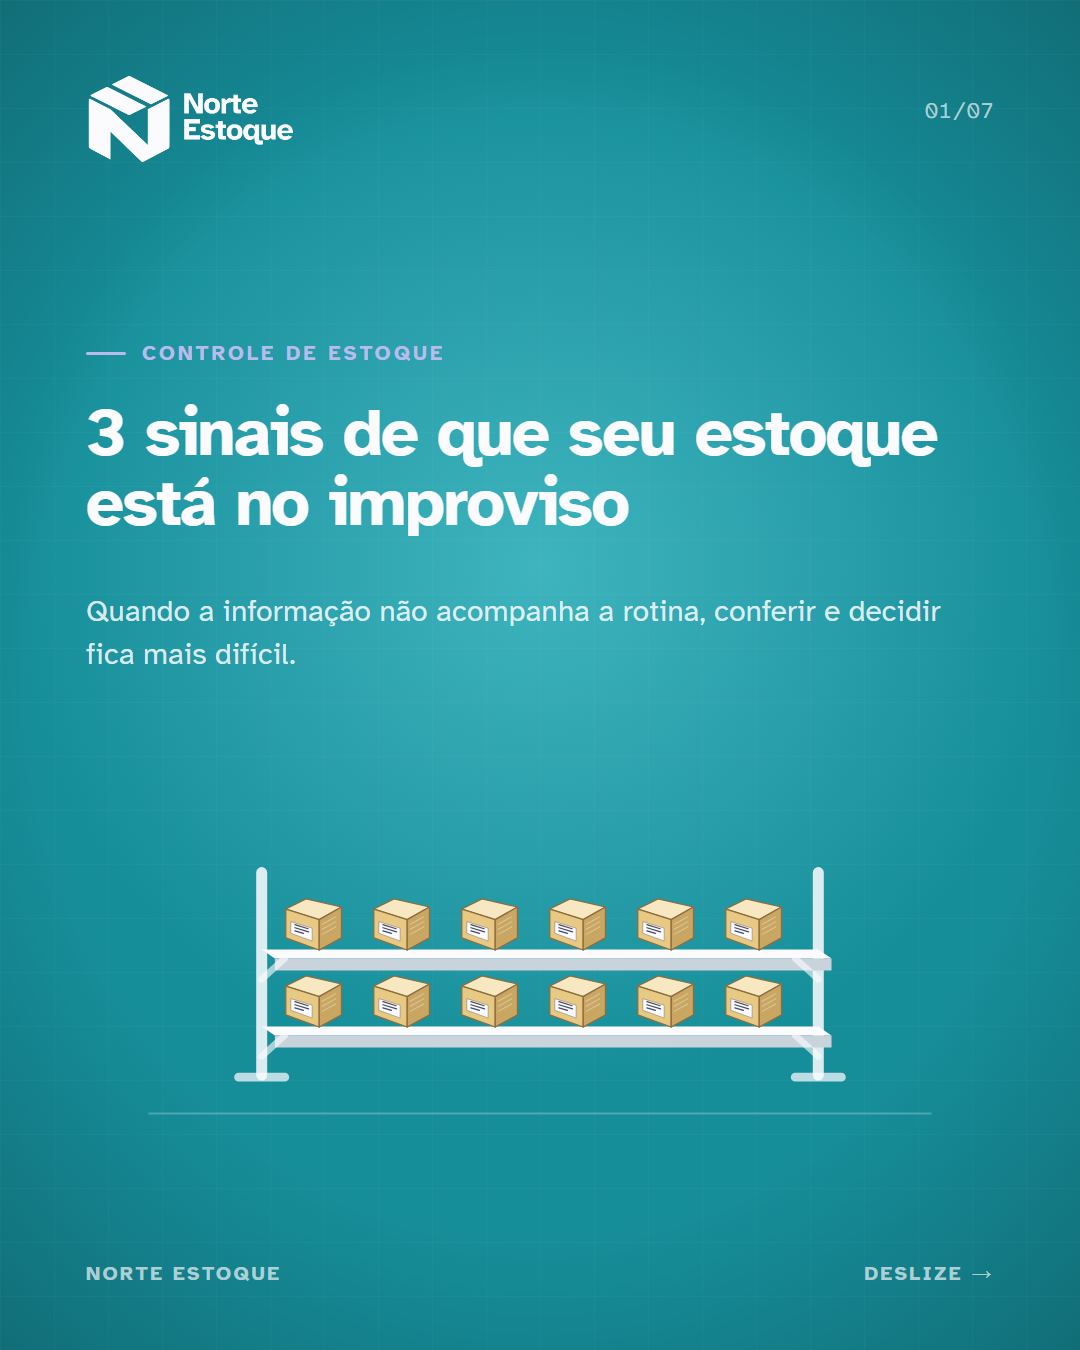
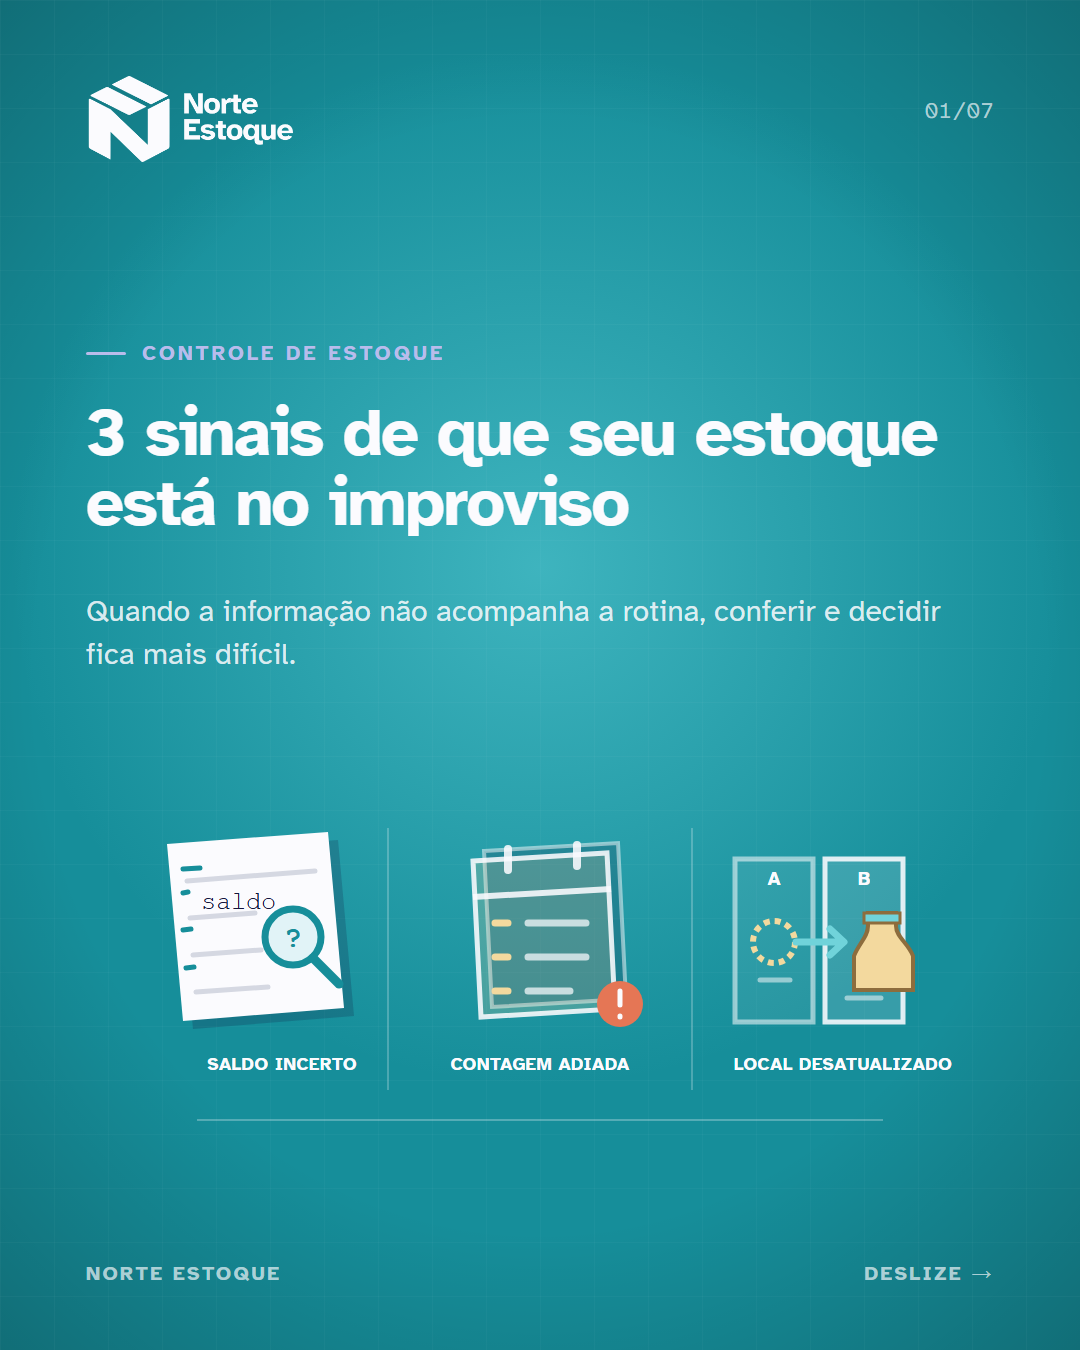
Apply selected three-signal illustration to inventory cover

Changed region(s): [[0.1528, 0.5911, 0.8861, 0.84]]

diff --git a/src/coverReferences/NorteEstoqueCoverReferences.tsx b/src/coverReferences/NorteEstoqueCoverReferences.tsx
@@ -2,6 +2,7 @@ import React from 'react';
 import {AbsoluteFill, Img} from 'remotion';
 import {Background, Eyebrow, Foot, NAVY, PAD, Produto, Support, Title, WHITE, kit, mute} from '../lib/NortePost';
 import {ensurePostLoaded, FONT_POST as SANS, FONT_POST_MONO as MONO} from '../lib/fonts';
+import {NorteEstoqueSignalsIllustration} from '../lib/NorteEstoqueSignalsIllustration';
 
 const LOGO_ESTOQUE = kit('01-logos/norte-estoque/horizontal/norte-estoque_horizontal_branco_transparente.png');
 const TEAL = '#70D3DA';
@@ -29,43 +30,7 @@ const RefFrame: React.FC<{name: string; children: React.ReactNode}> = ({name, ch
 
 const LinhaSinais: React.FC = () => (
   <RefFrame name="Os três sinais">
-    <svg width="908" height="390" viewBox="0 0 908 390" fill="none" xmlns="http://www.w3.org/2000/svg" aria-label="Três sinais ilustrados separadamente: saldo incerto, contagem adiada e local desatualizado">
-      <path d="M302 58V320M606 58V320" stroke="rgba(251,251,254,.24)" strokeWidth="2" />
-      <g transform="translate(70 48)">
-        <path d="M21 34L182 22L198 198L37 211Z" fill="rgba(20,22,58,.2)" />
-        <path d="M11 26L172 14L188 190L27 203Z" fill="#FBFBFE" />
-        <path d="M31 63L159 53M34 100L99 95M37 137L105 132M40 174L112 169" stroke="#D5D8E2" strokeWidth="5" strokeLinecap="round" />
-        <text x="45" y="91" fill="#14163A" fontFamily="monospace" fontSize="25">saldo</text>
-        <circle cx="137" cy="119" r="28" fill="rgba(112,211,218,.18)" stroke="#168E9A" strokeWidth="7" />
-        <text x="137" y="129" textAnchor="middle" fill="#168E9A" fontFamily="monospace" fontSize="30" fontWeight="700">?</text>
-        <path d="M157 140L183 166" stroke="#168E9A" strokeWidth="9" strokeLinecap="round" />
-        <path d="M27 51L44 50M27 75L32 74M27 112L35 111M30 150L38 149" stroke="#168E9A" strokeWidth="5" strokeLinecap="round" />
-      </g>
-      <text x="196" y="300" textAnchor="middle" fill={WHITE} fontFamily={SANS} fontSize="18" fontWeight="700" letterSpacing=".4">SALDO INCERTO</text>
-      <g transform="translate(370 55)">
-        <path d="M28 26L162 18L170 174L36 182Z" fill="rgba(20,22,58,.18)" stroke="rgba(251,251,254,.5)" strokeWidth="4" />
-        <path d="M17 36L151 28L159 184L25 192Z" fill="rgba(243,217,158,.2)" stroke={STROKE} strokeWidth="5" />
-        <path d="M17 72L155 64" stroke={STROKE} strokeWidth="6" />
-        <path d="M52 24V45M121 20V41" stroke={STROKE} strokeWidth="8" strokeLinecap="round" />
-        <path d="M39 98H52M39 132H52M39 166H52" stroke={CREAM} strokeWidth="7" strokeLinecap="round" />
-        <path d="M72 98H130M72 132H130M72 166H114" stroke="rgba(251,251,254,.72)" strokeWidth="7" strokeLinecap="round" />
-        <circle cx="164" cy="179" r="23" fill="#E57655" />
-        <path d="M164 166V180M164 191V192" stroke={WHITE} strokeWidth="5" strokeLinecap="round" />
-      </g>
-      <text x="454" y="300" textAnchor="middle" fill={WHITE} fontFamily={SANS} fontSize="18" fontWeight="700" letterSpacing=".4">CONTAGEM ADIADA</text>
-      <g transform="translate(644 61)">
-        <path d="M5 28H83V191H5Z" fill="rgba(251,251,254,.08)" stroke="rgba(251,251,254,.55)" strokeWidth="5" />
-        <path d="M95 28H173V191H95Z" fill="rgba(251,251,254,.15)" stroke={STROKE} strokeWidth="5" />
-        <text x="44" y="54" textAnchor="middle" fill={WHITE} fontFamily={SANS} fontSize="19" fontWeight="700">A</text>
-        <text x="134" y="54" textAnchor="middle" fill={WHITE} fontFamily={SANS} fontSize="19" fontWeight="700">B</text>
-        <circle cx="44" cy="111" r="21" stroke={CREAM} strokeWidth="6" strokeDasharray="6 5" />
-        <path d="M66 111H112M100 98L114 111L100 124" stroke={TEAL} strokeWidth="7" strokeLinecap="round" strokeLinejoin="round" />
-        <g transform="translate(124 82)"><path d="M14 0H42V13C42 24 54 30 59 43V77H0V43C5 30 14 24 14 13Z" fill={CREAM} stroke="#8D6D3D" strokeWidth="4"/><path d="M10 0H46V10H10Z" fill={TEAL} stroke="#8D6D3D" strokeWidth="3"/></g>
-        <path d="M30 149H60M117 167H151" stroke="rgba(251,251,254,.52)" strokeWidth="5" strokeLinecap="round" />
-      </g>
-      <text x="757" y="300" textAnchor="middle" fill={WHITE} fontFamily={SANS} fontSize="18" fontWeight="700" letterSpacing=".4">LOCAL DESATUALIZADO</text>
-      <path d="M111 350H797" stroke="rgba(251,251,254,.28)" strokeWidth="2" />
-    </svg>
+    <NorteEstoqueSignalsIllustration />
   </RefFrame>
 );
 const Caderno: React.FC = () => (
@@ -147,6 +112,7 @@ export const NorteEstoqueCapaBalanca = LinhaSinais;
 export const NorteEstoqueCapaMapa = Caderno;
 export const NorteEstoqueCapaEtiqueta = Mapa;
 export const NorteEstoqueCapaMedidor = Mesa;
+
 
 
 

diff --git a/src/lib/NorteEstoqueSignalsIllustration.tsx b/src/lib/NorteEstoqueSignalsIllustration.tsx
@@ -1,0 +1,47 @@
+import React from 'react';
+import {FONT_POST as SANS} from './fonts';
+
+const TEAL = '#70D3DA';
+const CREAM = '#F3D99E';
+const STROKE = 'rgba(251,251,254,.88)';
+const WHITE = '#FBFBFE';
+
+export const NorteEstoqueSignalsIllustration: React.FC = () => (
+  <svg width="908" height="390" viewBox="0 0 908 390" fill="none" xmlns="http://www.w3.org/2000/svg" aria-label="Três sinais ilustrados separadamente: saldo incerto, contagem adiada e local desatualizado">
+    <path d="M302 58V320M606 58V320" stroke="rgba(251,251,254,.24)" strokeWidth="2" />
+    <g transform="translate(70 48)">
+      <path d="M21 34L182 22L198 198L37 211Z" fill="rgba(20,22,58,.2)" />
+      <path d="M11 26L172 14L188 190L27 203Z" fill="#FBFBFE" />
+      <path d="M31 63L159 53M34 100L99 95M37 137L105 132M40 174L112 169" stroke="#D5D8E2" strokeWidth="5" strokeLinecap="round" />
+      <text x="45" y="91" fill="#14163A" fontFamily="monospace" fontSize="25">saldo</text>
+      <circle cx="137" cy="119" r="28" fill="rgba(112,211,218,.18)" stroke="#168E9A" strokeWidth="7" />
+      <text x="137" y="129" textAnchor="middle" fill="#168E9A" fontFamily="monospace" fontSize="30" fontWeight="700">?</text>
+      <path d="M157 140L183 166" stroke="#168E9A" strokeWidth="9" strokeLinecap="round" />
+      <path d="M27 51L44 50M27 75L32 74M27 112L35 111M30 150L38 149" stroke="#168E9A" strokeWidth="5" strokeLinecap="round" />
+    </g>
+    <text x="196" y="300" textAnchor="middle" fill={WHITE} fontFamily={SANS} fontSize="18" fontWeight="700" letterSpacing=".4">SALDO INCERTO</text>
+    <g transform="translate(370 55)">
+      <path d="M28 26L162 18L170 174L36 182Z" fill="rgba(20,22,58,.18)" stroke="rgba(251,251,254,.5)" strokeWidth="4" />
+      <path d="M17 36L151 28L159 184L25 192Z" fill="rgba(243,217,158,.2)" stroke={STROKE} strokeWidth="5" />
+      <path d="M17 72L155 64" stroke={STROKE} strokeWidth="6" />
+      <path d="M52 24V45M121 20V41" stroke={STROKE} strokeWidth="8" strokeLinecap="round" />
+      <path d="M39 98H52M39 132H52M39 166H52" stroke={CREAM} strokeWidth="7" strokeLinecap="round" />
+      <path d="M72 98H130M72 132H130M72 166H114" stroke="rgba(251,251,254,.72)" strokeWidth="7" strokeLinecap="round" />
+      <circle cx="164" cy="179" r="23" fill="#E57655" />
+      <path d="M164 166V180M164 191V192" stroke={WHITE} strokeWidth="5" strokeLinecap="round" />
+    </g>
+    <text x="454" y="300" textAnchor="middle" fill={WHITE} fontFamily={SANS} fontSize="18" fontWeight="700" letterSpacing=".4">CONTAGEM ADIADA</text>
+    <g transform="translate(644 61)">
+      <path d="M5 28H83V191H5Z" fill="rgba(251,251,254,.08)" stroke="rgba(251,251,254,.55)" strokeWidth="5" />
+      <path d="M95 28H173V191H95Z" fill="rgba(251,251,254,.15)" stroke={STROKE} strokeWidth="5" />
+      <text x="44" y="54" textAnchor="middle" fill={WHITE} fontFamily={SANS} fontSize="19" fontWeight="700">A</text>
+      <text x="134" y="54" textAnchor="middle" fill={WHITE} fontFamily={SANS} fontSize="19" fontWeight="700">B</text>
+      <circle cx="44" cy="111" r="21" stroke={CREAM} strokeWidth="6" strokeDasharray="6 5" />
+      <path d="M66 111H112M100 98L114 111L100 124" stroke={TEAL} strokeWidth="7" strokeLinecap="round" strokeLinejoin="round" />
+      <g transform="translate(124 82)"><path d="M14 0H42V13C42 24 54 30 59 43V77H0V43C5 30 14 24 14 13Z" fill={CREAM} stroke="#8D6D3D" strokeWidth="4"/><path d="M10 0H46V10H10Z" fill={TEAL} stroke="#8D6D3D" strokeWidth="3"/></g>
+      <path d="M30 149H60M117 167H151" stroke="rgba(251,251,254,.52)" strokeWidth="5" strokeLinecap="round" />
+    </g>
+    <text x="757" y="300" textAnchor="middle" fill={WHITE} fontFamily={SANS} fontSize="18" fontWeight="700" letterSpacing=".4">LOCAL DESATUALIZADO</text>
+    <path d="M111 350H797" stroke="rgba(251,251,254,.28)" strokeWidth="2" />
+  </svg>
+);

diff --git a/src/templates/NorteEstoqueSinais.tsx b/src/templates/NorteEstoqueSinais.tsx
@@ -3,6 +3,7 @@ import {AbsoluteFill, Img, interpolate, useCurrentFrame} from 'remotion';
 import {ArrowRight, Boxes, CalendarDays, Check, CircleHelp, ClipboardList, MapPin, Package} from 'lucide-react';
 import {ensurePostLoaded, FONT_POST as SANS, FONT_POST_MONO as MONO} from '../lib/fonts';
 import {Background, Eyebrow, Foot, NAVY, PAD, Produto, Support, Title, Top, WHITE, ease, kit, mute} from '../lib/NortePost';
+import {NorteEstoqueSignalsIllustration} from '../lib/NorteEstoqueSignalsIllustration';
 
 const LOGO_ESTOQUE = kit('01-logos/norte-estoque/horizontal/norte-estoque_horizontal_branco_transparente.png');
 const TELA_INVENTARIO = kit('08-recursos/telas-oficiais/estoque/d-inventario.png');
@@ -45,31 +46,8 @@ const Cover: React.FC = () => {
         <Eyebrow tone="product" top={340}>CONTROLE DE ESTOQUE</Eyebrow>
         <Title tone="product" top={398} size={67}>3 sinais de que seu estoque está no improviso</Title>
         <Support tone="product" top={590} width={870} size={30}>Quando a informação não acompanha a rotina, conferir e decidir fica mais difícil.</Support>
-        <div data-illustration="stock-signal-shelf" style={{position: 'absolute', left: 110, top: 790, width: 860, height: 350}}>
-          <svg width="860" height="350" viewBox="0 0 860 350" fill="none" xmlns="http://www.w3.org/2000/svg" aria-label="Prateleira de estoque com três sinais de atenção">
-            <g transform="translate(-43 -17.5) scale(1.1)">
-            <path d="M74 310H786" stroke="rgba(251,251,254,.25)" strokeWidth="2" />
-            <path d="M177 91V275M683 91V275" stroke="rgba(251,251,254,.86)" strokeWidth="10" strokeLinecap="round" />
-            <path d="M177 161H683L695 169H189Z" fill="#FBFBFE" />
-            <path d="M189 169H695V180H189Z" fill="#C9D3DC" />
-            <path d="M177 231H683L695 239H189Z" fill="#FBFBFE" />
-            <path d="M189 239H695V250H189Z" fill="#C9D3DC" />
-            <path d="M177 188L198 169M683 188L662 169M177 258L198 239M683 258L662 239" stroke="rgba(251,251,254,.62)" strokeWidth="6" strokeLinecap="round" />
-            <path d="M156 277H198M662 277H704" stroke="rgba(251,251,254,.72)" strokeWidth="8" strokeLinecap="round" />
-            <Carton x={198} y={114} scale={0.46} />
-            <Carton x={278} y={114} scale={0.46} />
-            <Carton x={358} y={114} scale={0.46} />
-            <Carton x={438} y={114} scale={0.46} />
-            <Carton x={518} y={114} scale={0.46} />
-            <Carton x={598} y={114} scale={0.46} />
-            <Carton x={198} y={184} scale={0.46} />
-            <Carton x={278} y={184} scale={0.46} />
-            <Carton x={358} y={184} scale={0.46} />
-            <Carton x={438} y={184} scale={0.46} />
-            <Carton x={518} y={184} scale={0.46} />
-            <Carton x={598} y={184} scale={0.46} />
-            </g>
-          </svg>
+        <div data-illustration="stock-signal-triptych" style={{position: 'absolute', left: 86, top: 770, width: 908, height: 390}}>
+          <NorteEstoqueSignalsIllustration />
         </div>
         <Foot tone="product" label="Norte Estoque" />
       </AbsoluteFill>
@@ -214,3 +192,4 @@ export const NorteEstoqueSinais04Animada = SinalMovimentacaoAnimada;
 export const NorteEstoqueSinais05 = DecisaoScene;
 export const NorteEstoqueSinais06 = CaminhoScene;
 export const NorteEstoqueSinais07 = Fechamento;
+
